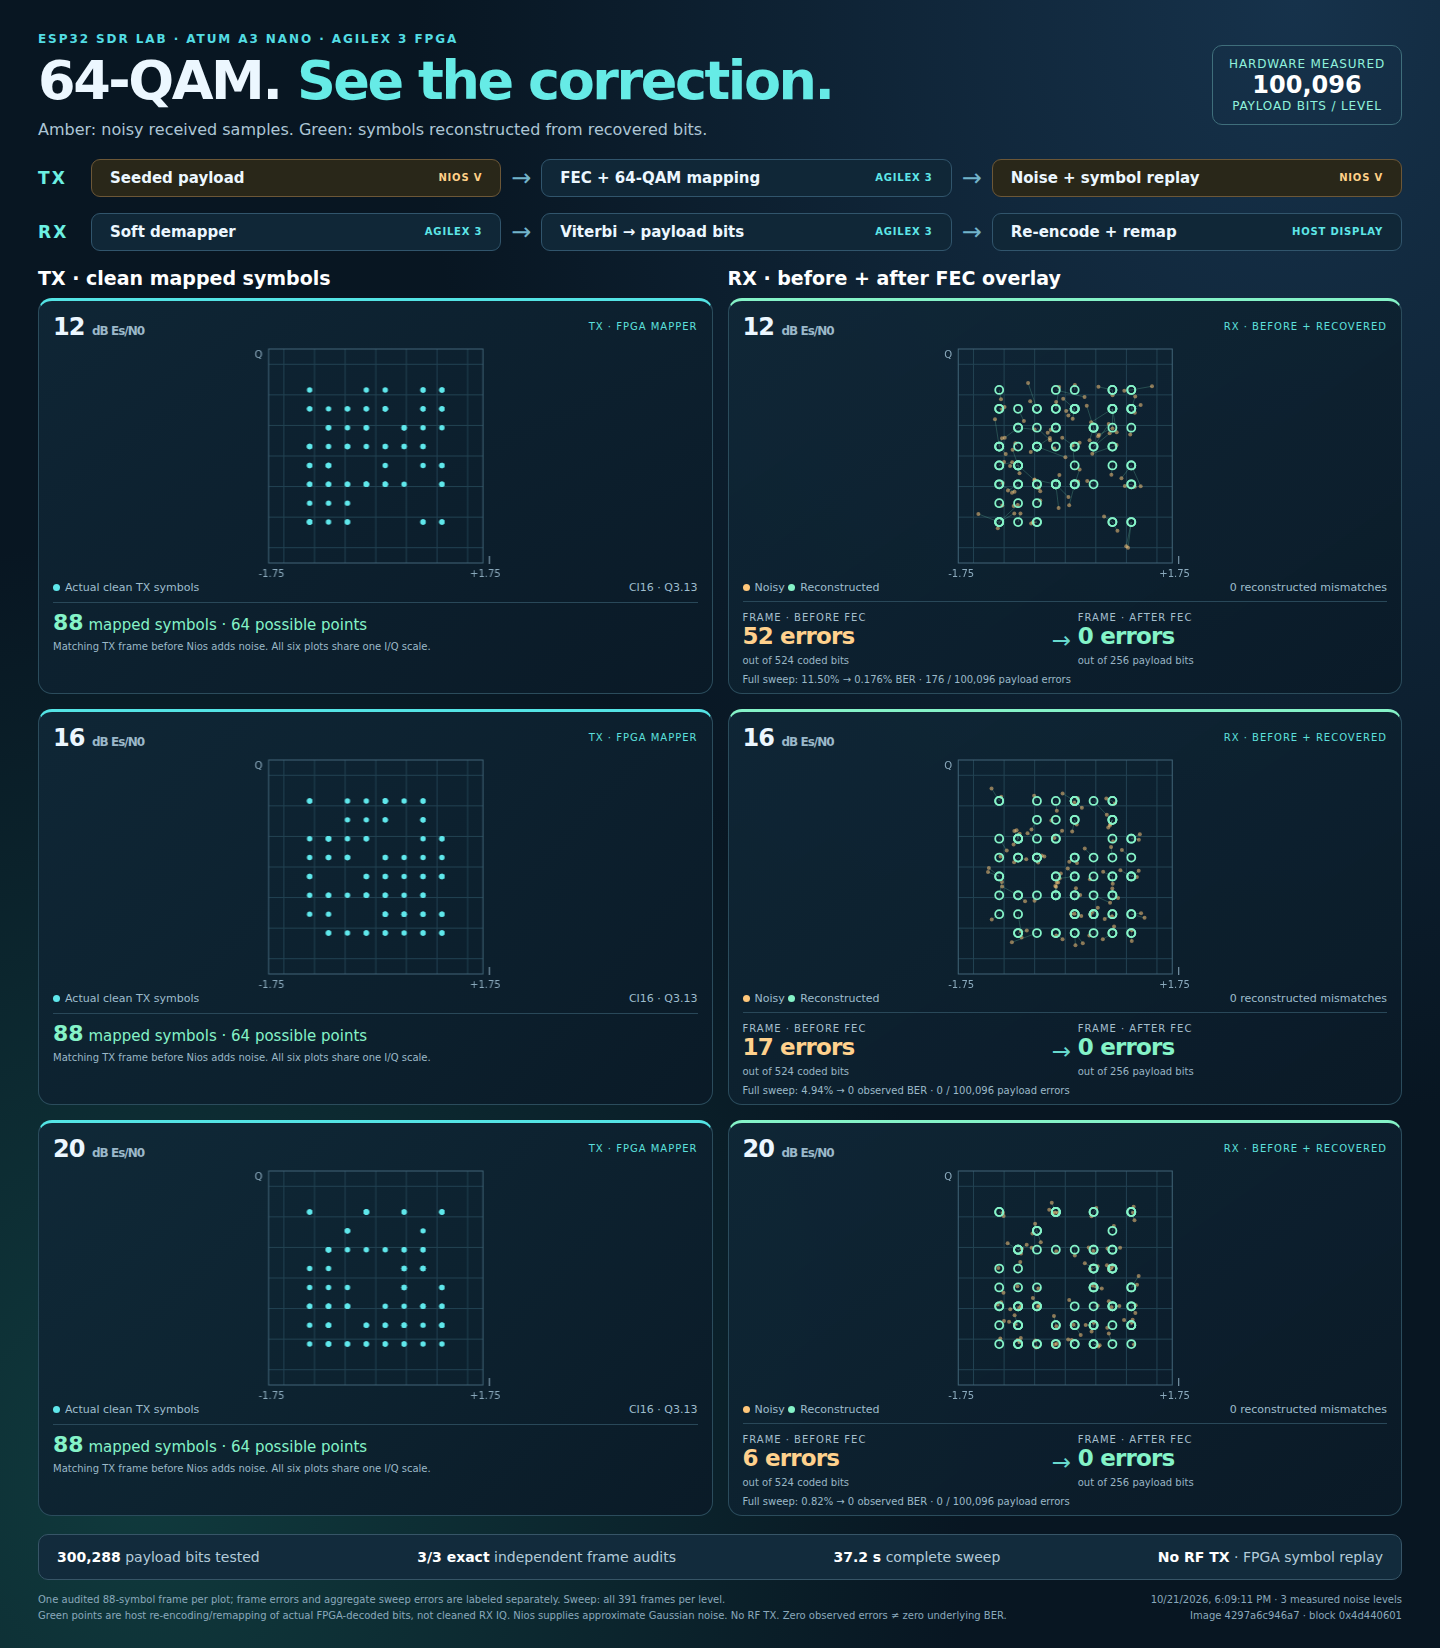
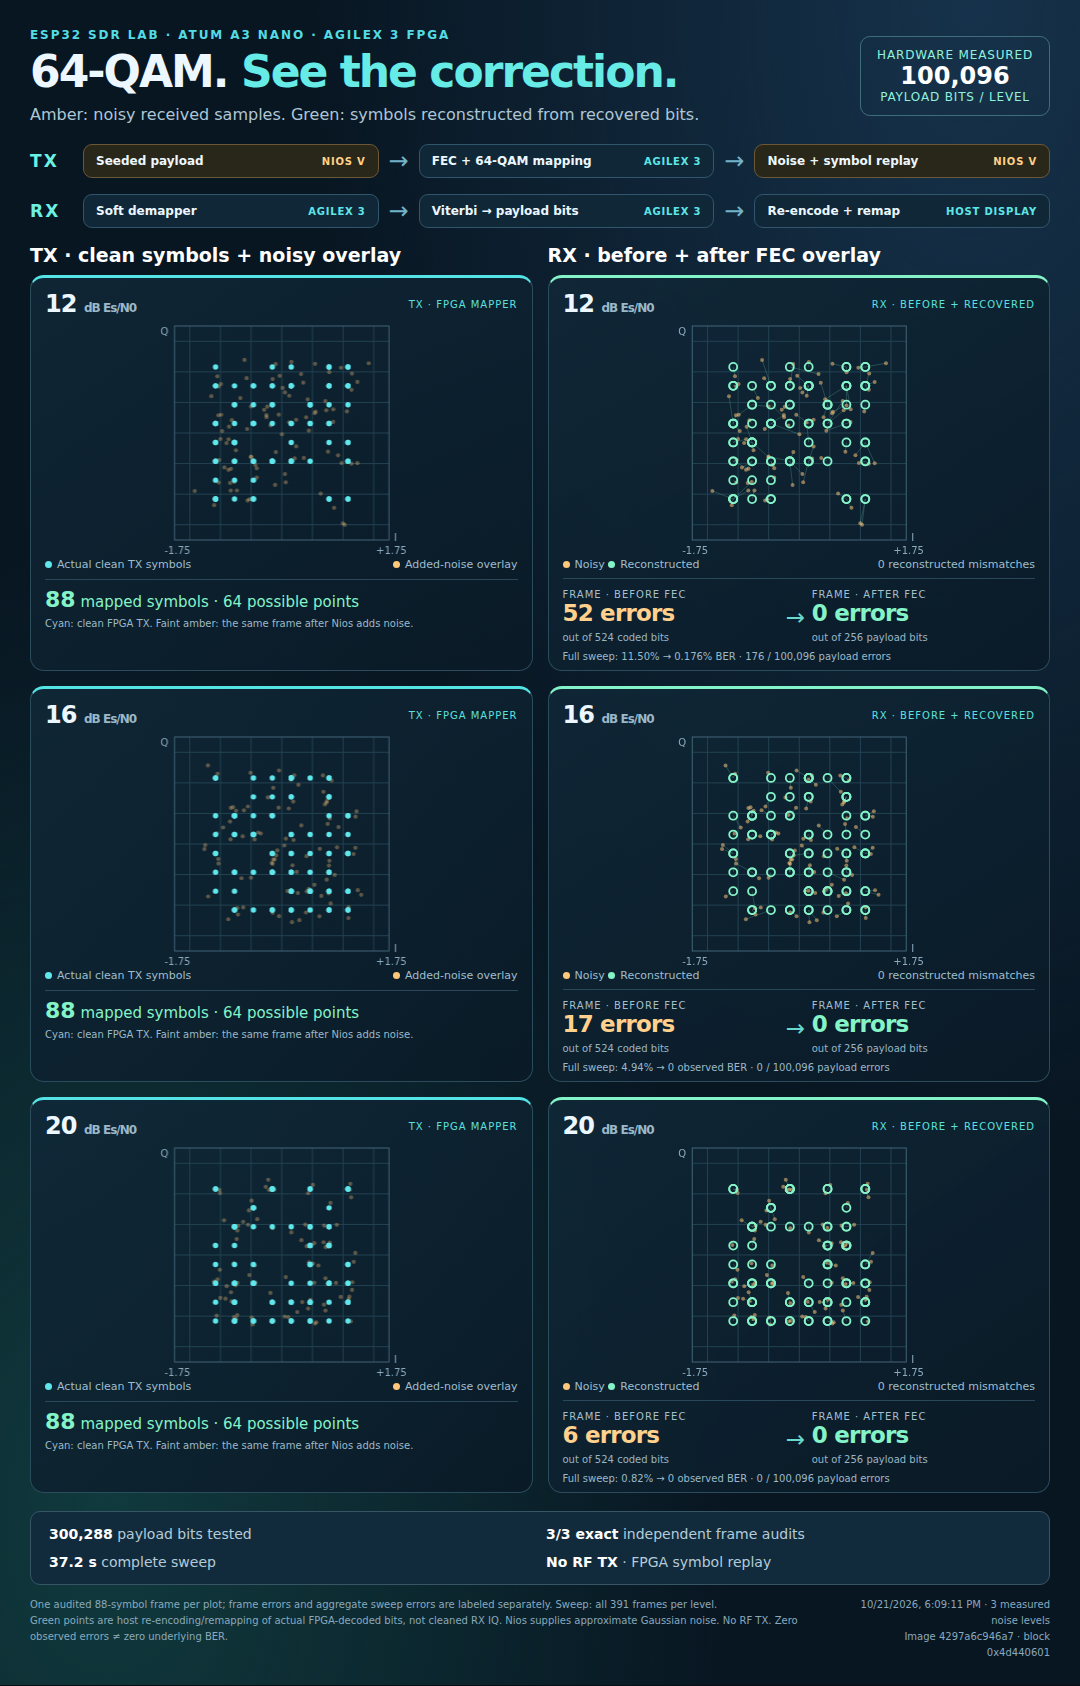
Narrow QAM poster and overlay noisy samples on TX references

Changed region(s): [[0.0306, 0.0, 0.9778, 0.9903], [0.1833, 0.7118, 0.3361, 0.8046], [0.3667, 0.8046, 0.4583, 0.8356]]

diff --git a/esp32_agilex3_iq/cyberether/qam64_poster.html b/esp32_agilex3_iq/cyberether/qam64_poster.html
@@ -1,13 +1,13 @@
 <!doctype html><html lang="en"><meta charset="utf-8"><meta name="viewport" content="width=device-width,initial-scale=1"><title>64-QAM · Before and after FEC</title>
 <style>
-:root{color-scheme:dark}*{box-sizing:border-box}body{margin:0;background:#050d16;color:#ecf7ff;font-family:Inter,system-ui,sans-serif}nav{max-width:1440px;margin:12px auto;display:flex;gap:20px;align-items:center;padding:0 24px;font-size:13px;color:#91aaba}a{color:#63e9ea;text-decoration:none}#poster{max-width:1440px;min-width:920px;margin:auto;padding:32px 38px 24px;background:radial-gradient(ellipse at 90% 0%,#16324b 0,transparent 48%),radial-gradient(ellipse at 10% 90%,#103a3d 0,transparent 45%),#081622}.heading{display:flex;justify-content:space-between;align-items:center;gap:24px;margin-bottom:20px}.eyebrow{color:#53dce3;letter-spacing:.16em;font-size:12px;font-weight:800}h1{font-size:clamp(32px,3.8vw,54px);letter-spacing:-.045em;line-height:1.05;margin:7px 0}h1 span{color:#66ebe6}.headline{color:#adc6d6;font-size:16px;margin-top:10px}.badge{padding:11px 16px;border:1px solid #3f6e7b;border-radius:10px;text-align:center;color:#90f2dc;white-space:nowrap;font-size:12px;letter-spacing:.07em}.badge b{display:block;color:white;font-size:24px;letter-spacing:0}.pipeline{display:flex;align-items:center;gap:10px;margin:16px 0}.tag{font-size:17px;letter-spacing:.12em;color:#6cf0e3;font-weight:900;min-width:43px}.block{border:1px solid #31556c;border-radius:9px;background:#102737;padding:9px 18px;min-width:0;flex:1;display:flex;align-items:center;justify-content:space-between;gap:10px;font-weight:700;font-size:15px}.block small{font-size:10px;letter-spacing:.08em;color:#5ee6e7;white-space:nowrap}.block.nios{border-color:#6c5737;background:#292719}.block.nios small{color:#ffd188}.arrow{font-size:24px;color:#72b3ca}.grid{display:grid;grid-template-columns:repeat(2,minmax(0,1fr));gap:15px}.card{background:linear-gradient(145deg,#102838dd,#0a1a27e8);border:1px solid #2b4c5c;border-radius:14px;overflow:hidden;padding:12px 14px 8px}.card.rx{border-top:3px solid #eebc72}.card.tx{border-top:3px solid #54e4e5}.cardhead{display:flex;justify-content:space-between;align-items:center}.cardhead b{font-size:24px;letter-spacing:-.04em}.cardhead span{color:#9bb8c9;font-size:12px}.cardhead em{font-style:normal;font-size:10px;letter-spacing:.1em;color:#5de0de}.plot{display:block;width:100%;height:240px}.legend{font-size:11px;color:#9ebdcd;display:flex;justify-content:space-between;gap:8px}.ber{display:grid;grid-template-columns:1fr 26px 1fr;align-items:center;border-top:1px solid #294859;padding:10px 0 3px;margin-top:7px}.ber label{font-size:10px;letter-spacing:.1em;color:#a5bfcd;display:block}.ber strong{font-size:25px;color:#ffd18d;letter-spacing:-.035em;display:block}.ber .after strong{color:#85f3c8}.ber small{font-size:10px;color:#99b5c4}.ber .transition{color:#68d9cd;font-size:23px}.summary{display:flex;justify-content:space-between;align-items:center;gap:12px;margin-top:18px;padding:14px 18px;border:1px solid #375567;background:#122b3c;border-radius:10px;font-size:14px;color:#b4ccda}.summary b{color:#fff}.source{font-size:10px;color:#8aa9bc;margin-top:12px;display:flex;justify-content:space-between;gap:15px;line-height:1.6}.key{display:inline-block;width:7px;height:7px;border-radius:50%;background:#5fe7eb;margin-right:5px}.key.gold{background:#ffc77a}.error{padding:20px;color:#ffadac}.pending{opacity:.4}@media(max-width:1100px){#poster{padding:24px}.block{font-size:12px;padding:8px 10px}.plot{height:225px}.headline{font-size:14px}.badge b{font-size:20px}.ber strong{font-size:21px}}
+:root{color-scheme:dark}*{box-sizing:border-box}body{margin:0;background:#050d16;color:#ecf7ff;font-family:Inter,system-ui,sans-serif}nav{max-width:1080px;margin:12px auto;display:flex;gap:14px;align-items:center;padding:0 24px;flex-wrap:wrap;font-size:13px;color:#91aaba}a{color:#63e9ea;text-decoration:none}#poster{max-width:1080px;min-width:920px;width:calc(100% - 96px);margin:auto;padding:28px 30px 24px;background:radial-gradient(ellipse at 90% 0%,#16324b 0,transparent 48%),radial-gradient(ellipse at 10% 90%,#103a3d 0,transparent 45%),#081622}.heading{display:flex;justify-content:space-between;align-items:center;gap:24px;margin-bottom:20px}.eyebrow{color:#53dce3;letter-spacing:.16em;font-size:12px;font-weight:800}h1{font-size:clamp(32px,3.2vw,44px);letter-spacing:-.045em;line-height:1.05;margin:7px 0}h1 span{color:#66ebe6}.headline{color:#adc6d6;font-size:16px;margin-top:10px}.badge{padding:11px 16px;border:1px solid #3f6e7b;border-radius:10px;text-align:center;color:#90f2dc;white-space:nowrap;font-size:12px;letter-spacing:.07em}.badge b{display:block;color:white;font-size:24px;letter-spacing:0}.pipeline{display:flex;align-items:center;gap:10px;margin:16px 0}.tag{font-size:17px;letter-spacing:.12em;color:#6cf0e3;font-weight:900;min-width:43px}.block{border:1px solid #31556c;border-radius:9px;background:#102737;padding:9px 12px;min-width:0;flex:1;display:flex;align-items:center;justify-content:space-between;gap:10px;font-weight:700;font-size:12px}.block small{font-size:10px;letter-spacing:.08em;color:#5ee6e7;white-space:nowrap}.block.nios{border-color:#6c5737;background:#292719}.block.nios small{color:#ffd188}.arrow{font-size:24px;color:#72b3ca}.grid{display:grid;grid-template-columns:repeat(2,minmax(0,1fr));gap:15px}.card{background:linear-gradient(145deg,#102838dd,#0a1a27e8);border:1px solid #2b4c5c;border-radius:14px;overflow:hidden;padding:12px 14px 8px}.card.rx{border-top:3px solid #eebc72}.card.tx{border-top:3px solid #54e4e5}.cardhead{display:flex;justify-content:space-between;align-items:center}.cardhead b{font-size:24px;letter-spacing:-.04em}.cardhead span{color:#9bb8c9;font-size:12px}.cardhead em{font-style:normal;font-size:10px;letter-spacing:.1em;color:#5de0de}.plot{display:block;width:100%;height:240px}.legend{font-size:11px;color:#9ebdcd;display:flex;justify-content:space-between;gap:8px}.ber{display:grid;grid-template-columns:1fr 26px 1fr;align-items:center;border-top:1px solid #294859;padding:10px 0 3px;margin-top:7px}.ber label{font-size:10px;letter-spacing:.1em;color:#a5bfcd;display:block}.ber strong{font-size:25px;color:#ffd18d;letter-spacing:-.035em;display:block}.ber .after strong{color:#85f3c8}.ber small{font-size:10px;color:#99b5c4}.ber .transition{color:#68d9cd;font-size:23px}.summary{display:grid;grid-template-columns:1fr 1fr;align-items:center;gap:12px;margin-top:18px;padding:14px 18px;border:1px solid #375567;background:#122b3c;border-radius:10px;font-size:14px;color:#b4ccda}.summary b{color:#fff}.source{font-size:10px;color:#8aa9bc;margin-top:12px;display:flex;justify-content:space-between;gap:15px;line-height:1.6}.key{display:inline-block;width:7px;height:7px;border-radius:50%;background:#5fe7eb;margin-right:5px}.key.gold{background:#ffc77a}.error{padding:20px;color:#ffadac}.pending{opacity:.4}@media(max-width:1100px){#poster{padding:24px}.block{font-size:12px;padding:8px 10px}.plot{height:225px}.headline{font-size:14px}.badge b{font-size:20px}.ber strong{font-size:21px}}
 .rowtitle{display:grid;grid-template-columns:1fr 1fr;gap:15px;align-items:center;margin:15px 0 9px;font-size:14px;color:#afc7d6}.rowtitle b{font-size:19px;color:#fff}.framecount{font-size:15px;color:#ffc77a;padding:7px 0 3px;border-top:1px solid #294859;margin-top:8px}.framecount b{font-size:22px}.correction{color:#85f3c8}.countnote{font-size:10px;color:#9bb9c8;margin-top:3px}.key.green{background:#85f3c8}.key.red{background:#ff8997}nav label{white-space:nowrap}nav input{accent-color:#85f3c8}.ber strong{font-size:23px}.card.tx{border-top-color:#54e4e5}.card.rx{border-top-color:#85f3c8}
 </style>
 <nav><a href="/">← Interactive BER lab</a><a href="/poster.png" download="Agilex3_64QAM_TX_RX.png">Download measured example PNG</a><label><input type="checkbox" id="paths" checked> Correction paths</label><span id="status">Loading measured FPGA data…</span></nav>
 <main id="poster"><div class="heading"><div><div class="eyebrow">ESP32 SDR LAB · ATUM A3 NANO · AGILEX 3 FPGA</div><h1>64-QAM. <span>See the correction.</span></h1><div class="headline">Amber: noisy received samples. Green: symbols reconstructed from recovered bits.</div></div><div class="badge">HARDWARE MEASURED<b id="bitBadge">100k+</b>PAYLOAD BITS / LEVEL</div></div>
 <div class="pipeline" aria-label="TX pipeline"><div class="tag">TX</div><div class="block nios">Seeded payload <small>NIOS V</small></div><div class="arrow">→</div><div class="block">FEC + 64-QAM mapping <small>AGILEX 3</small></div><div class="arrow">→</div><div class="block nios">Noise + symbol replay <small>NIOS V</small></div></div>
 <div class="pipeline" aria-label="RX pipeline"><div class="tag">RX</div><div class="block">Soft demapper <small>AGILEX 3</small></div><div class="arrow">→</div><div class="block">Viterbi → payload bits <small>AGILEX 3</small></div><div class="arrow">→</div><div class="block">Re-encode + remap <small>HOST DISPLAY</small></div></div>
-<div class="rowtitle"><b>TX · clean mapped symbols</b><b>RX · before + after FEC overlay</b></div>
+<div class="rowtitle"><b>TX · clean symbols + noisy overlay</b><b>RX · before + after FEC overlay</b></div>
 <section class="grid" id="pairs" aria-label="TX RX pairs by noise level"></section>
 <div class="summary"><span><b id="totalBits">—</b> payload bits tested</span><span><b id="audit">—</b> independent frame audits</span><span><b id="wall">—</b> complete sweep</span><span><b>No RF TX</b> · FPGA symbol replay</span></div>
 <div class="source"><span>One audited 88-symbol frame per plot; frame errors and aggregate sweep errors are labeled separately. Sweep: all <span id="frames">391</span> frames per level.<br>Green points are host re-encoding/remapping of actual FPGA-decoded bits, not cleaned RX IQ. Nios supplies approximate Gaussian noise. No RF TX. Zero observed errors ≠ zero underlying BER.</span><span id="proofId" style="text-align:right">Waiting for a completed FPGA measurement.</span></div>
@@ -22,6 +22,7 @@ function draw(id,e,limit,overlay=false,tx=false){
  for(let v=-1.5;v<=1.5;v+=.5){if(Math.abs(v)>limit)continue;x.beginPath();x.moveTo(X(v),top);x.lineTo(X(v),top+side);x.moveTo(left,Y(v));x.lineTo(left+side,Y(v));x.stroke()}
  x.strokeStyle='#426578';x.strokeRect(left,top,side,side);x.fillStyle='#8baabd';x.font='10px system-ui';x.fillText('Q',left-14,top+9);x.fillText('I',left+side+5,top+side+1);x.fillText('-'+limit,left-10,top+side+14);x.fillText('+'+limit,left+side-13,top+side+14);
  if(overlay&&$('paths').checked){x.strokeStyle='#85f3c835';e.before_xy.forEach((p,i)=>{const a=e.after_xy[i];x.beginPath();x.moveTo(X(p[0]),Y(p[1]));x.lineTo(X(a[0]),Y(a[1]));x.stroke()})}
+ if(tx){x.fillStyle='#ffc77a55';for(const p of e.before_xy){x.beginPath();x.arc(X(p[0]),Y(p[1]),2.1,0,Math.PI*2);x.fill()}}
  const points=tx?e.reference_xy:e.before_xy;
  points.forEach((p,i)=>{x.fillStyle=tx?'#5fe7eb':!overlay&&e.before_wrong[i]?'#ff8997':overlay?'#ffc77a85':'#ffc77a';x.beginPath();x.arc(X(p[0]),Y(p[1]),overlay?2:2.7,0,Math.PI*2);x.fill()});
  if(overlay)e.after_xy.forEach((p,i)=>{const a=X(p[0]),b=Y(p[1]);x.strokeStyle=e.after_wrong[i]?'#ff8997':'#85f3c8';x.lineWidth=1.8;x.beginPath();if(e.after_wrong[i]){x.moveTo(a-4,b-4);x.lineTo(a+4,b+4);x.moveTo(a-4,b+4);x.lineTo(a+4,b-4)}else x.arc(a,b,4,0,Math.PI*2);x.stroke()});
@@ -31,7 +32,7 @@ function render(p){
  if(p.rows.some(r=>!r.snapshot_audit.plots.correction_overlay))throw Error(p.overlay_error||'Actual decoded bits are required for the overlay');
  shown=p;const rows=p.rows.slice(0,3),minBits=Math.min(...rows.map(r=>r.payload_bits));
  const limit=Math.ceil(Math.max(1.25,...rows.flatMap(r=>r.snapshot_audit.plots.noisy_xy.flat().map(Math.abs)))*4)/4;
- $('pairs').innerHTML=rows.map((r,i)=>{const e=r.snapshot_audit.plots.correction_overlay;return `<article class="card tx"><div class="cardhead"><b>${r.esn0_db} <span>dB Es/N0</span></b><em>TX · FPGA MAPPER</em></div><canvas id="tx${i}" class="plot" aria-label="TX constellation at ${r.esn0_db} dB"></canvas><div class="legend"><span><i class="key"></i>Actual clean TX symbols</span><span>CI16 · Q3.13</span></div><div class="framecount correction"><b>${e.symbols}</b> mapped symbols · 64 possible points</div><div class="countnote">Matching TX frame before Nios adds noise. All six plots share one I/Q scale.</div></article>` + `<article class="card rx"><div class="cardhead"><b>${r.esn0_db} <span>dB Es/N0</span></b><em>RX · BEFORE + RECOVERED</em></div><canvas id="rx${i}" class="plot" aria-label="Before after FEC overlay at ${r.esn0_db} dB"></canvas><div class="legend"><span><i class="key gold"></i>Noisy <i class="key green"></i>Reconstructed</span><span>${e.wrong_reconstructed_symbols} reconstructed mismatches</span></div><div class="ber"><div><label>FRAME · BEFORE FEC</label><strong>${e.raw_bit_errors} errors</strong><small>out of ${e.coded_bits} coded bits</small></div><div class="transition">→</div><div class="after"><label>FRAME · AFTER FEC</label><strong>${e.payload_bit_errors} errors</strong><small>out of ${e.payload_bits} payload bits</small></div></div><div class="countnote">Full sweep: ${(r.pre_fec_ber*100).toFixed(2)}% → ${r.decoded_errors?(r.post_fec_ber*100).toFixed(3)+'%':'0 observed'} BER · ${r.decoded_errors.toLocaleString()} / ${r.payload_bits.toLocaleString()} payload errors</div></article>`}).join('');
+ $('pairs').innerHTML=rows.map((r,i)=>{const e=r.snapshot_audit.plots.correction_overlay;return `<article class="card tx"><div class="cardhead"><b>${r.esn0_db} <span>dB Es/N0</span></b><em>TX · FPGA MAPPER</em></div><canvas id="tx${i}" class="plot" aria-label="TX constellation at ${r.esn0_db} dB"></canvas><div class="legend"><span><i class="key"></i>Actual clean TX symbols</span><span><i class="key gold"></i>Added-noise overlay</span></div><div class="framecount correction"><b>${e.symbols}</b> mapped symbols · 64 possible points</div><div class="countnote">Cyan: clean FPGA TX. Faint amber: the same frame after Nios adds noise.</div></article>` + `<article class="card rx"><div class="cardhead"><b>${r.esn0_db} <span>dB Es/N0</span></b><em>RX · BEFORE + RECOVERED</em></div><canvas id="rx${i}" class="plot" aria-label="Before after FEC overlay at ${r.esn0_db} dB"></canvas><div class="legend"><span><i class="key gold"></i>Noisy <i class="key green"></i>Reconstructed</span><span>${e.wrong_reconstructed_symbols} reconstructed mismatches</span></div><div class="ber"><div><label>FRAME · BEFORE FEC</label><strong>${e.raw_bit_errors} errors</strong><small>out of ${e.coded_bits} coded bits</small></div><div class="transition">→</div><div class="after"><label>FRAME · AFTER FEC</label><strong>${e.payload_bit_errors} errors</strong><small>out of ${e.payload_bits} payload bits</small></div></div><div class="countnote">Full sweep: ${(r.pre_fec_ber*100).toFixed(2)}% → ${r.decoded_errors?(r.post_fec_ber*100).toFixed(3)+'%':'0 observed'} BER · ${r.decoded_errors.toLocaleString()} / ${r.payload_bits.toLocaleString()} payload errors</div></article>`}).join('');
  rows.forEach((r,i)=>{const e=r.snapshot_audit.plots.correction_overlay;draw('tx'+i,e,limit,false,true);draw('rx'+i,e,limit,true)});
  $('bitBadge').textContent=minBits.toLocaleString();$('totalBits').textContent=rows.reduce((n,r)=>n+r.payload_bits,0).toLocaleString();$('audit').textContent=rows.length+'/'+rows.length+' exact';$('wall').textContent=p.wall_seconds.toFixed(1)+' s';$('frames').textContent=rows.map(r=>r.frames).every(n=>n===rows[0].frames)?rows[0].frames:'recorded';$('proofId').textContent=`${new Date(p.started_at*1000).toLocaleString()} · ${p.rows.length} measured noise levels\nImage ${p.image.sha256.slice(0,12)} · block ${p.block_id}`;$('proofId').style.whiteSpace='pre-line';document.body.dataset.ready='true';
 }

diff --git a/esp32_agilex3_iq/docs/FPGA_64QAM_BER.md b/esp32_agilex3_iq/docs/FPGA_64QAM_BER.md
@@ -151,7 +151,7 @@ Build, reference and physical-board verification are also recorded in
 
 Open `/poster` on the same port (for example `http://HOST_IP:8773/poster`).
 The read-only layout has three rows (12, 16 and 20 dB) and two columns:
-actual clean TX symbols on the left, and the matching RX before/after-FEC
+actual clean TX symbols with a faint noisy overlay on the left, and the matching RX before/after-FEC
 overlay on the right. Separate TX/RX diagrams identify Nios replay,
 the FPGA encoder/mapper/demapper/Viterbi, and the host display reconstruction.
 Each lower panel shows frame error counts alongside the full-sweep result. All six plots use the same scale and equal
@@ -162,7 +162,7 @@ The **Download measured example PNG** link serves the committed screenshot,
 not a freshly rendered image of a later sweep. The page itself updates when
 a new completed proof becomes available. For a new export, capture the
 `#poster` element with a browser screenshot; its timestamp identifies the
-measurement. The supplied PNG is 1440 pixels wide and can be used directly
+measurement. The supplied PNG is 1080 pixels wide and can be used directly
 in a social post.
 
 ![FPGA TX/RX six-panel example](../notebooks/screenshots/08_fpga_64qam_social.png)
@@ -188,3 +188,5 @@ zero payload errors after FPGA decoding. These are single-frame counts
 176 payload errors at 12 dB. Old saved proofs are enriched from their NPZ
 snapshots after repeating the exact reference audit; completed results are
 cached. Opening the overlay never starts a hardware action.
+
+The centered poster is capped at 1080 pixels with wider page margins. On the TX side, faint amber dots show the same recorded frame after Nios adds noise; cyan dots remain the actual clean FPGA mapper output. The overlay is explanatory and does not imply noise was transmitted by the mapper.
